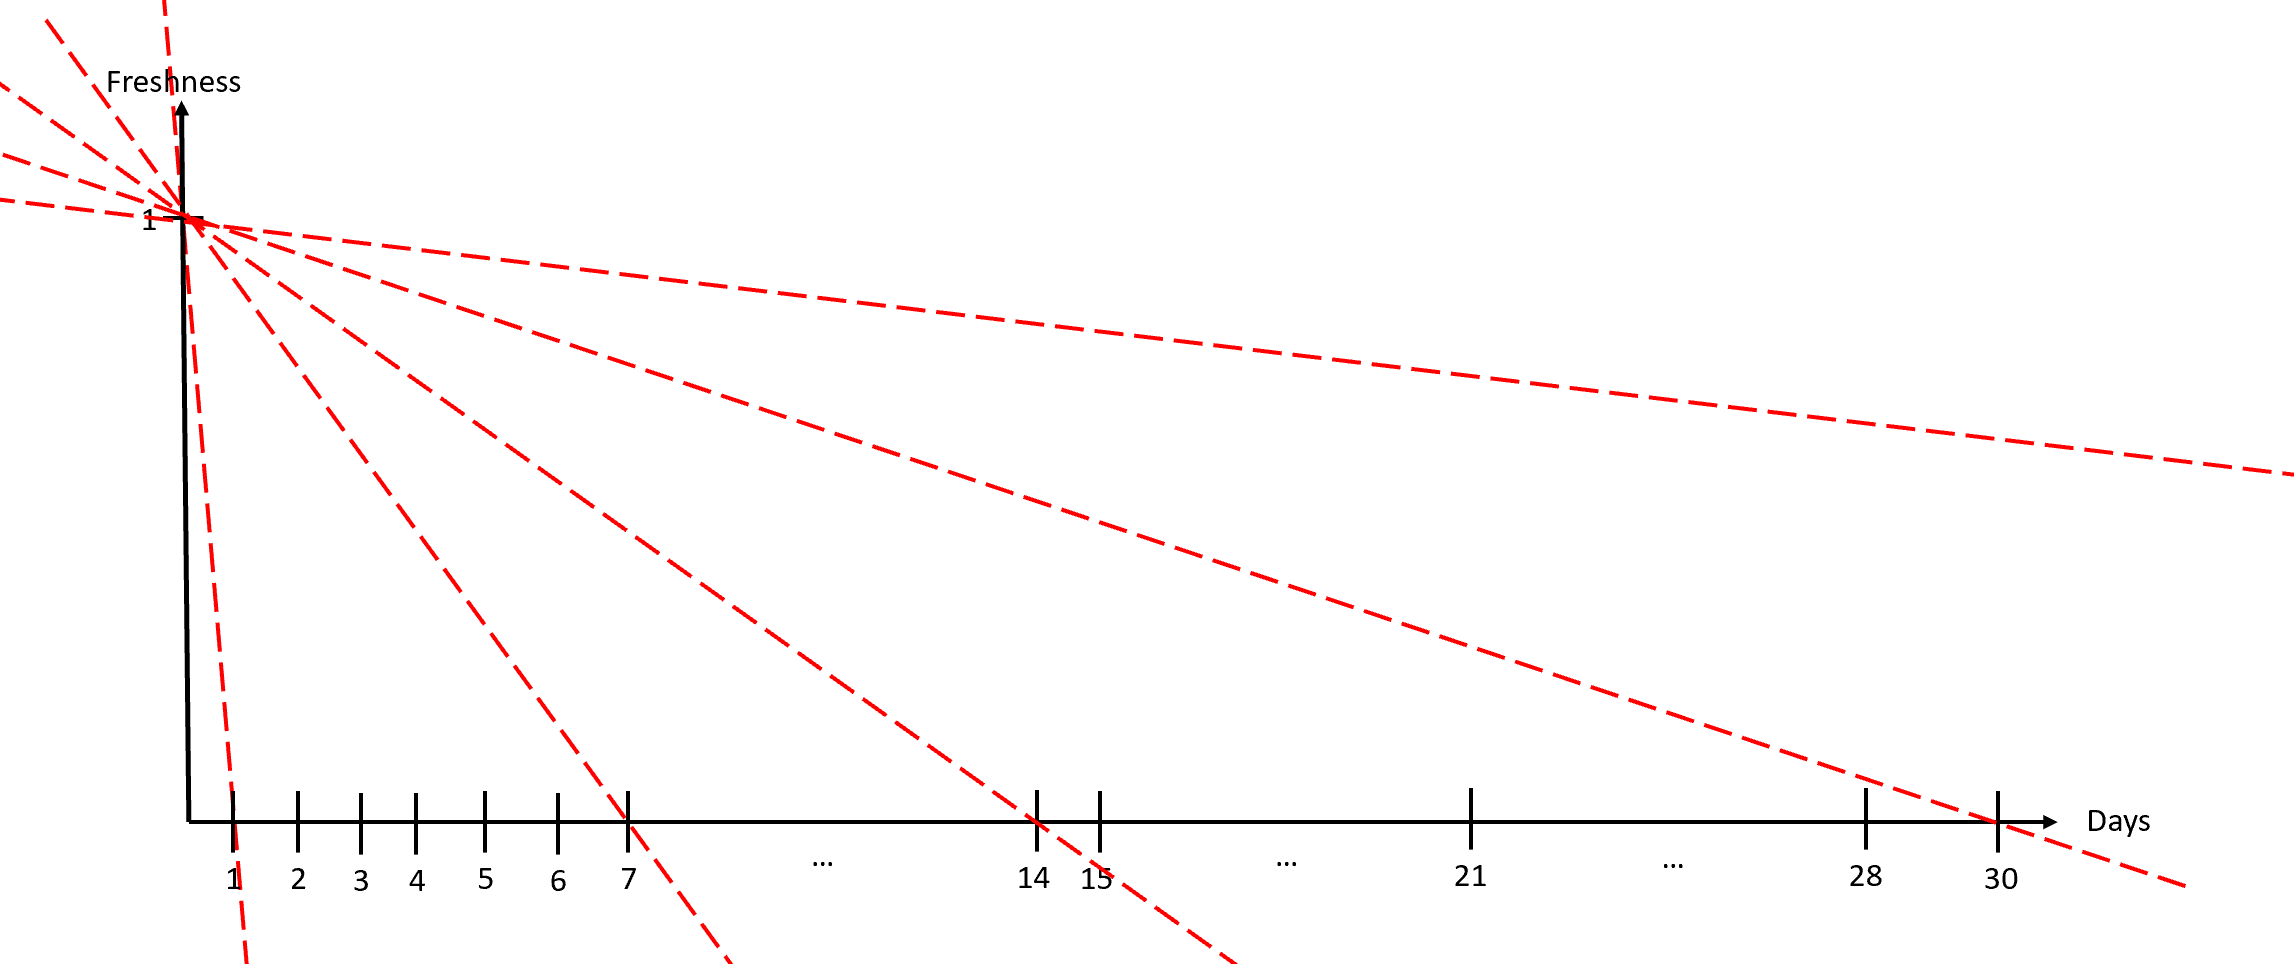
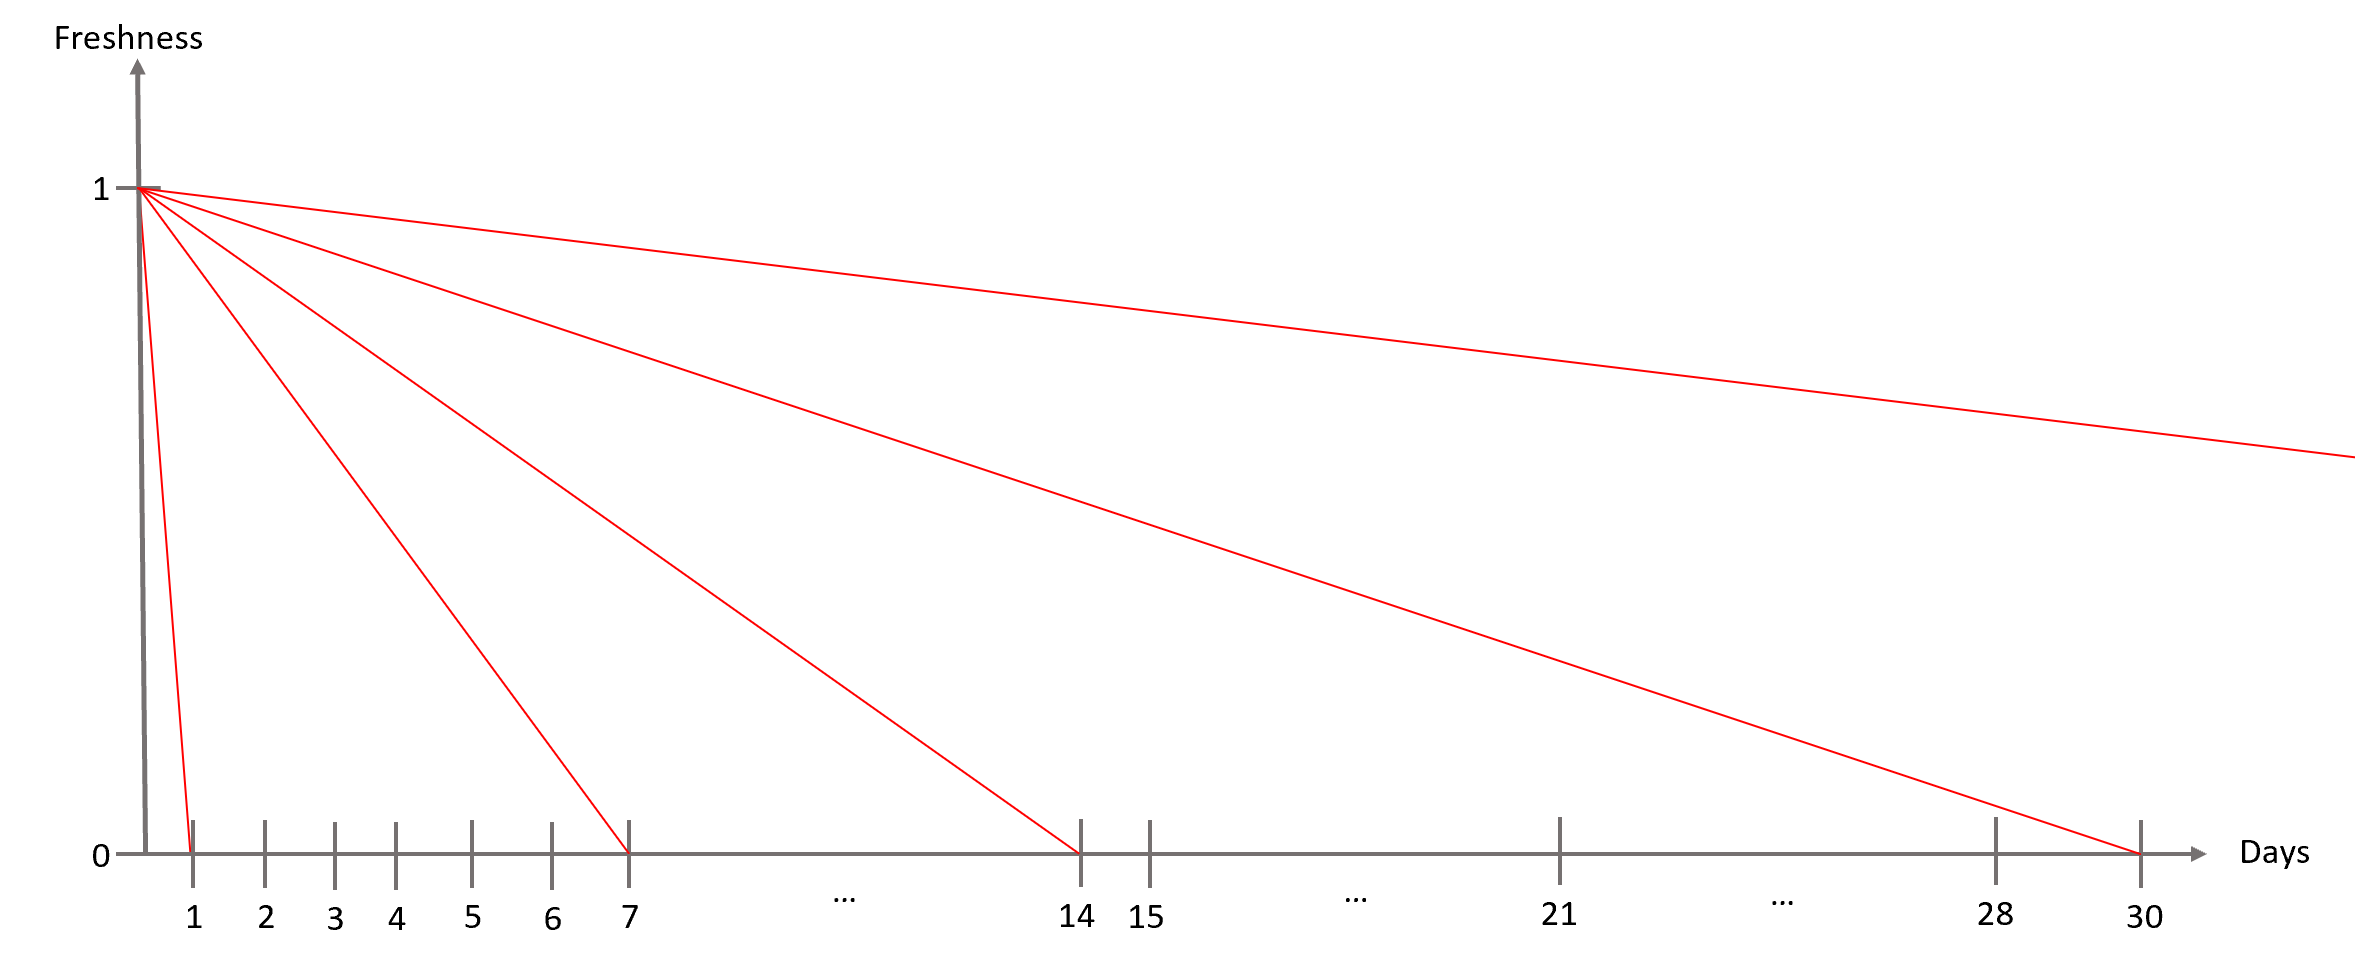
Readme file is updated with image links

diff --git a/README.md b/README.md
@@ -73,7 +73,7 @@ We will deep dive into using numeric freshness value for boosting and boosting f
 
 In first approach we have provided a double type field called “**freshness**” in our index. This field is calculated by Azure Functions using decaying calculation function. Decaying Function helps us to find a numeric value based on age of the document and document type. After that we are using this double value to boost our documents.
 
-![image-20200730103613172](C:\Users\ikiva\Documents\GitHub\Freshness-and-Boosting-for-Azure-Cognitive-Search\images\magnitude_boosting.png)
+![image-20200730103613172](images/magnitude_boosting.png)
 
 **Decaying Function**
 
@@ -113,10 +113,9 @@ public double decayingFunction(Date publishDate, int documentFrequency){
   } 
 ```
 
-
  After applying formula above value representation in a graph looks like *“Graph 1. Representation of freshness value for document frequency”
 
-![image-20200730094801297](C:\Users\ikiva\AppData\Roaming\Typora\typora-user-images\image-20200730094801297.png)
+![image-20200730124504974](images/freshness_aging.png)
 
 *Graph 1. Representation of freshness value for document frequency*
 
@@ -136,7 +135,7 @@ Figure 1 - Freshness Flow
 
 For the second approach we have extended “published” datetime field for all document types. Based on the document type we have updated related field and set rest of the other fields as default. In Azure Search for default value you must provide a value, in our case we have provided “1900-01-01”. To provide these different fields we have defined 5 new fields in index definition and provided a logic in our data pipeline to generate these 5 new fields.
 
-![image-20200730104238293](C:\Users\ikiva\Documents\GitHub\Freshness-and-Boosting-for-Azure-Cognitive-Search\images\freshness_boosting.png)
+![image-20200730104238293](images/freshness_boosting.png)
 
 *“Table 2. Frequency distribution for multi date fields”* represent how we generate fields
 
